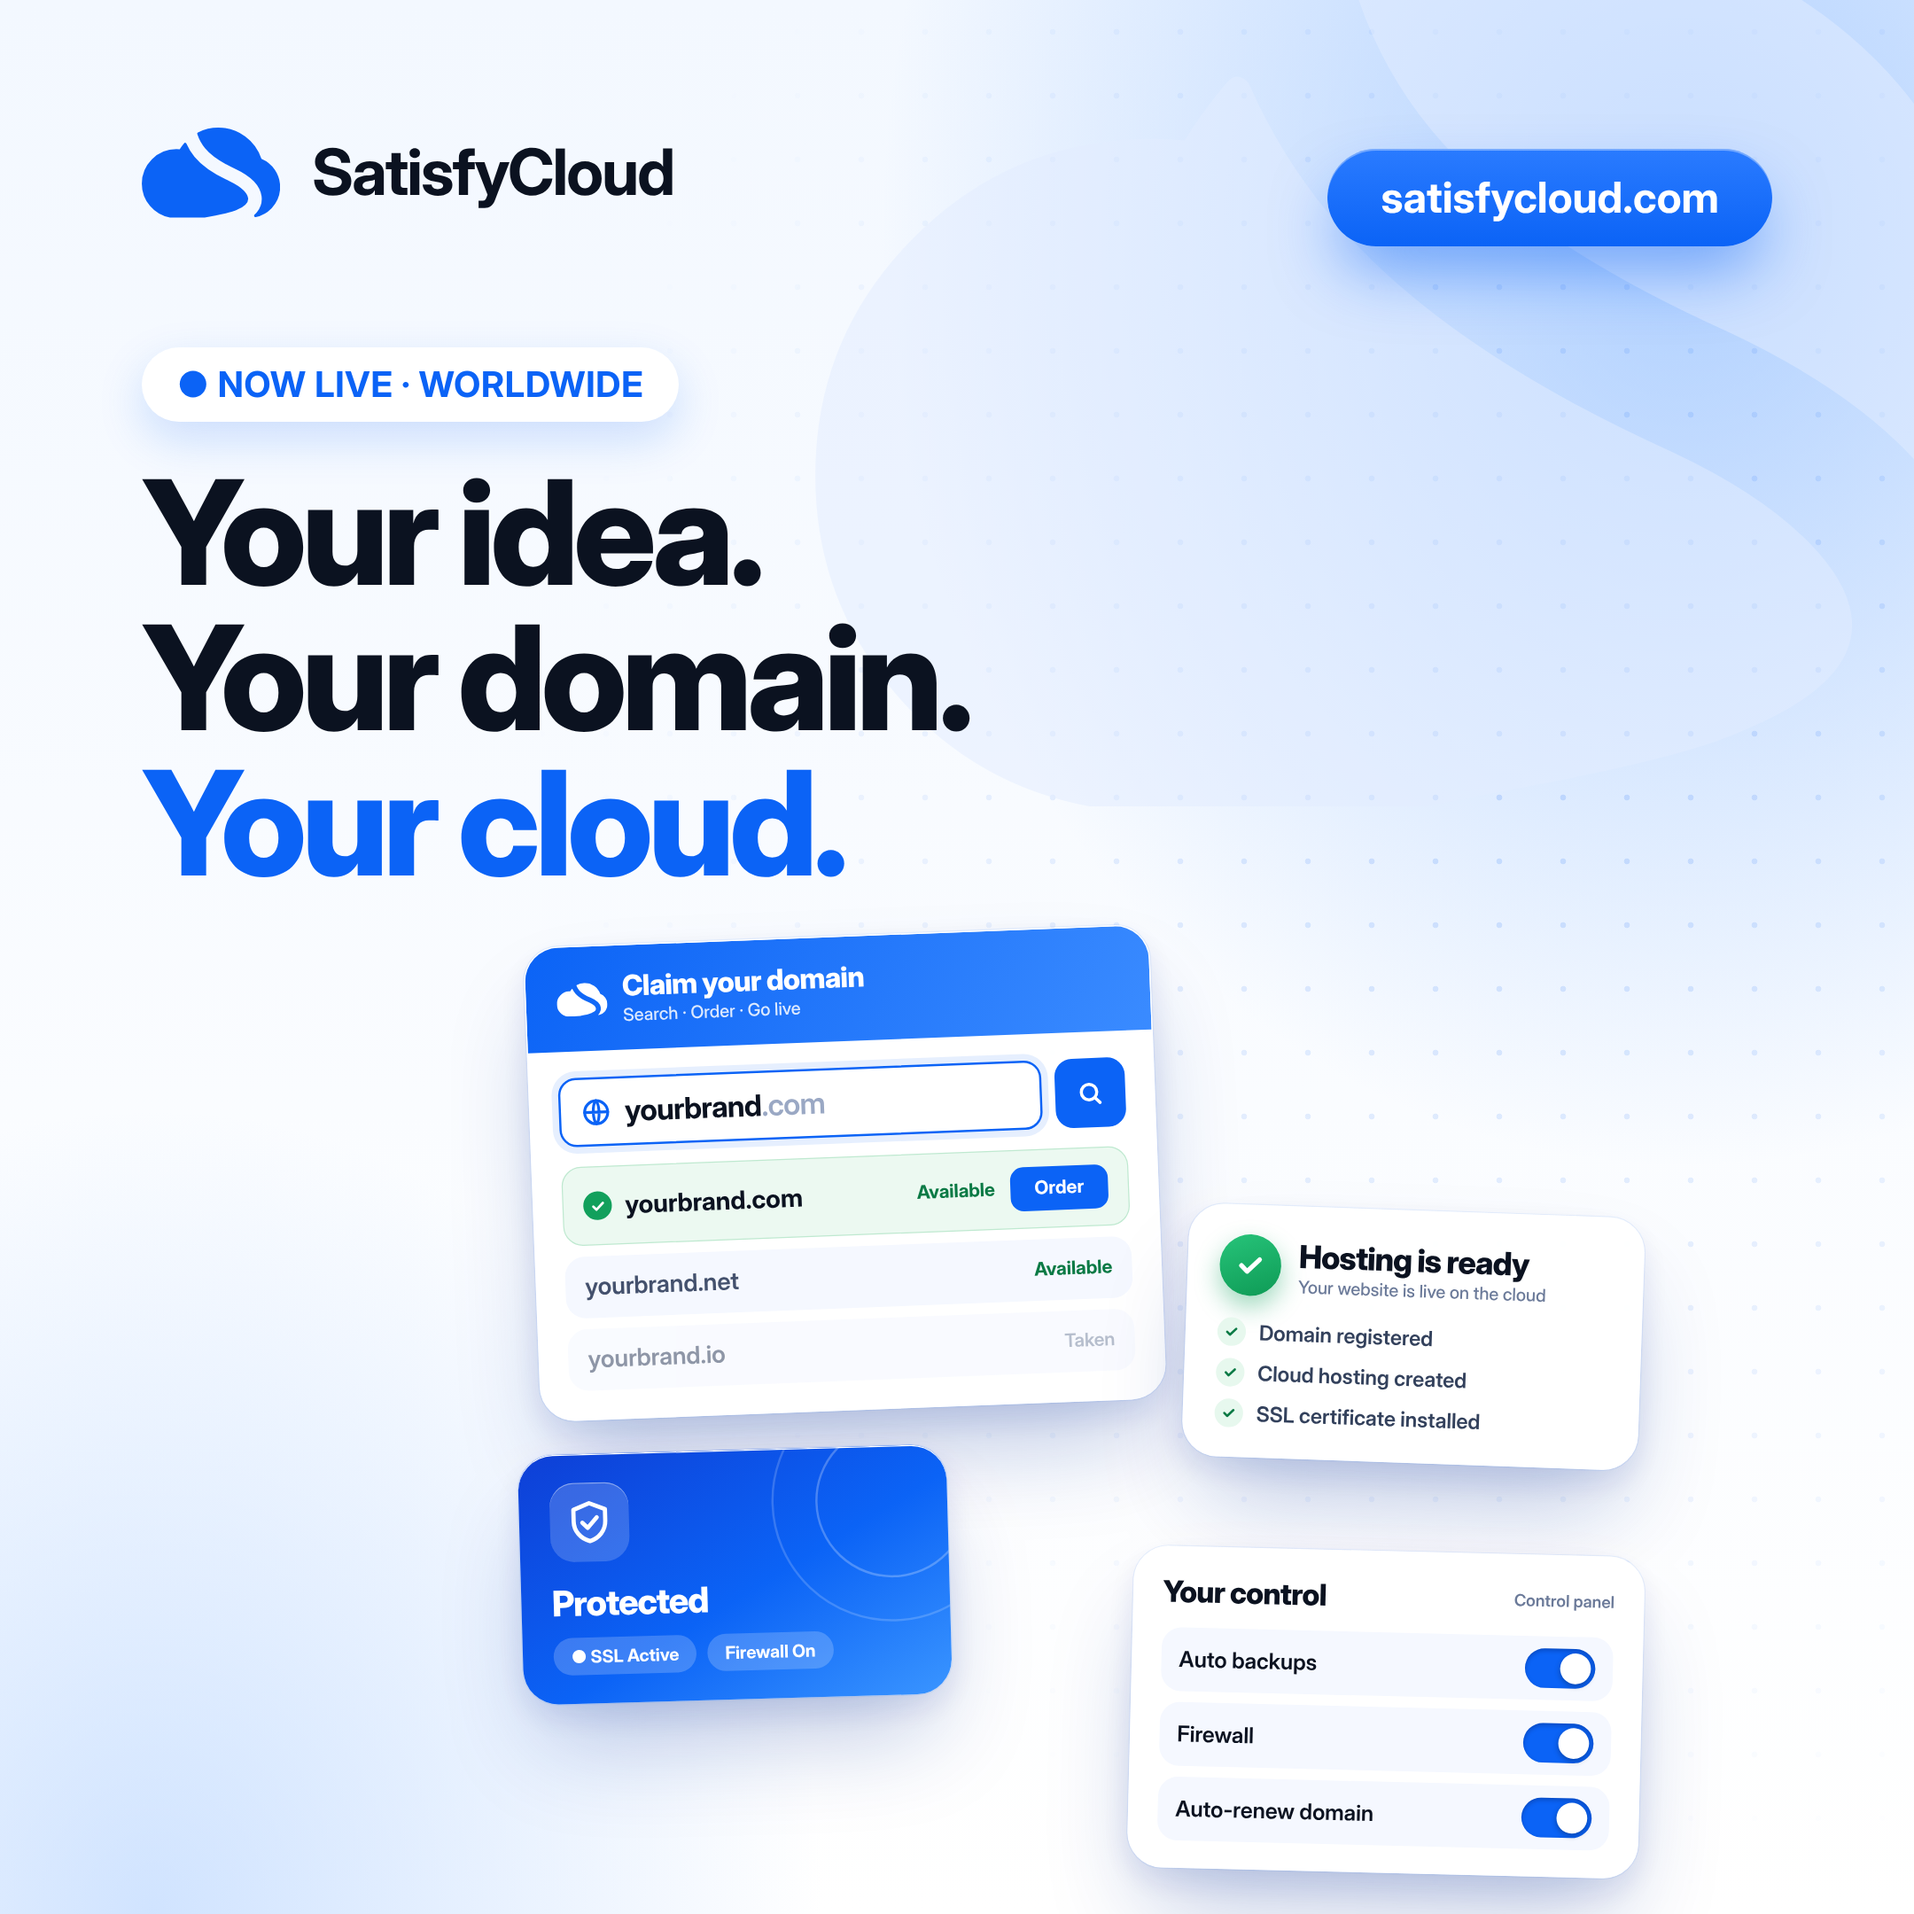
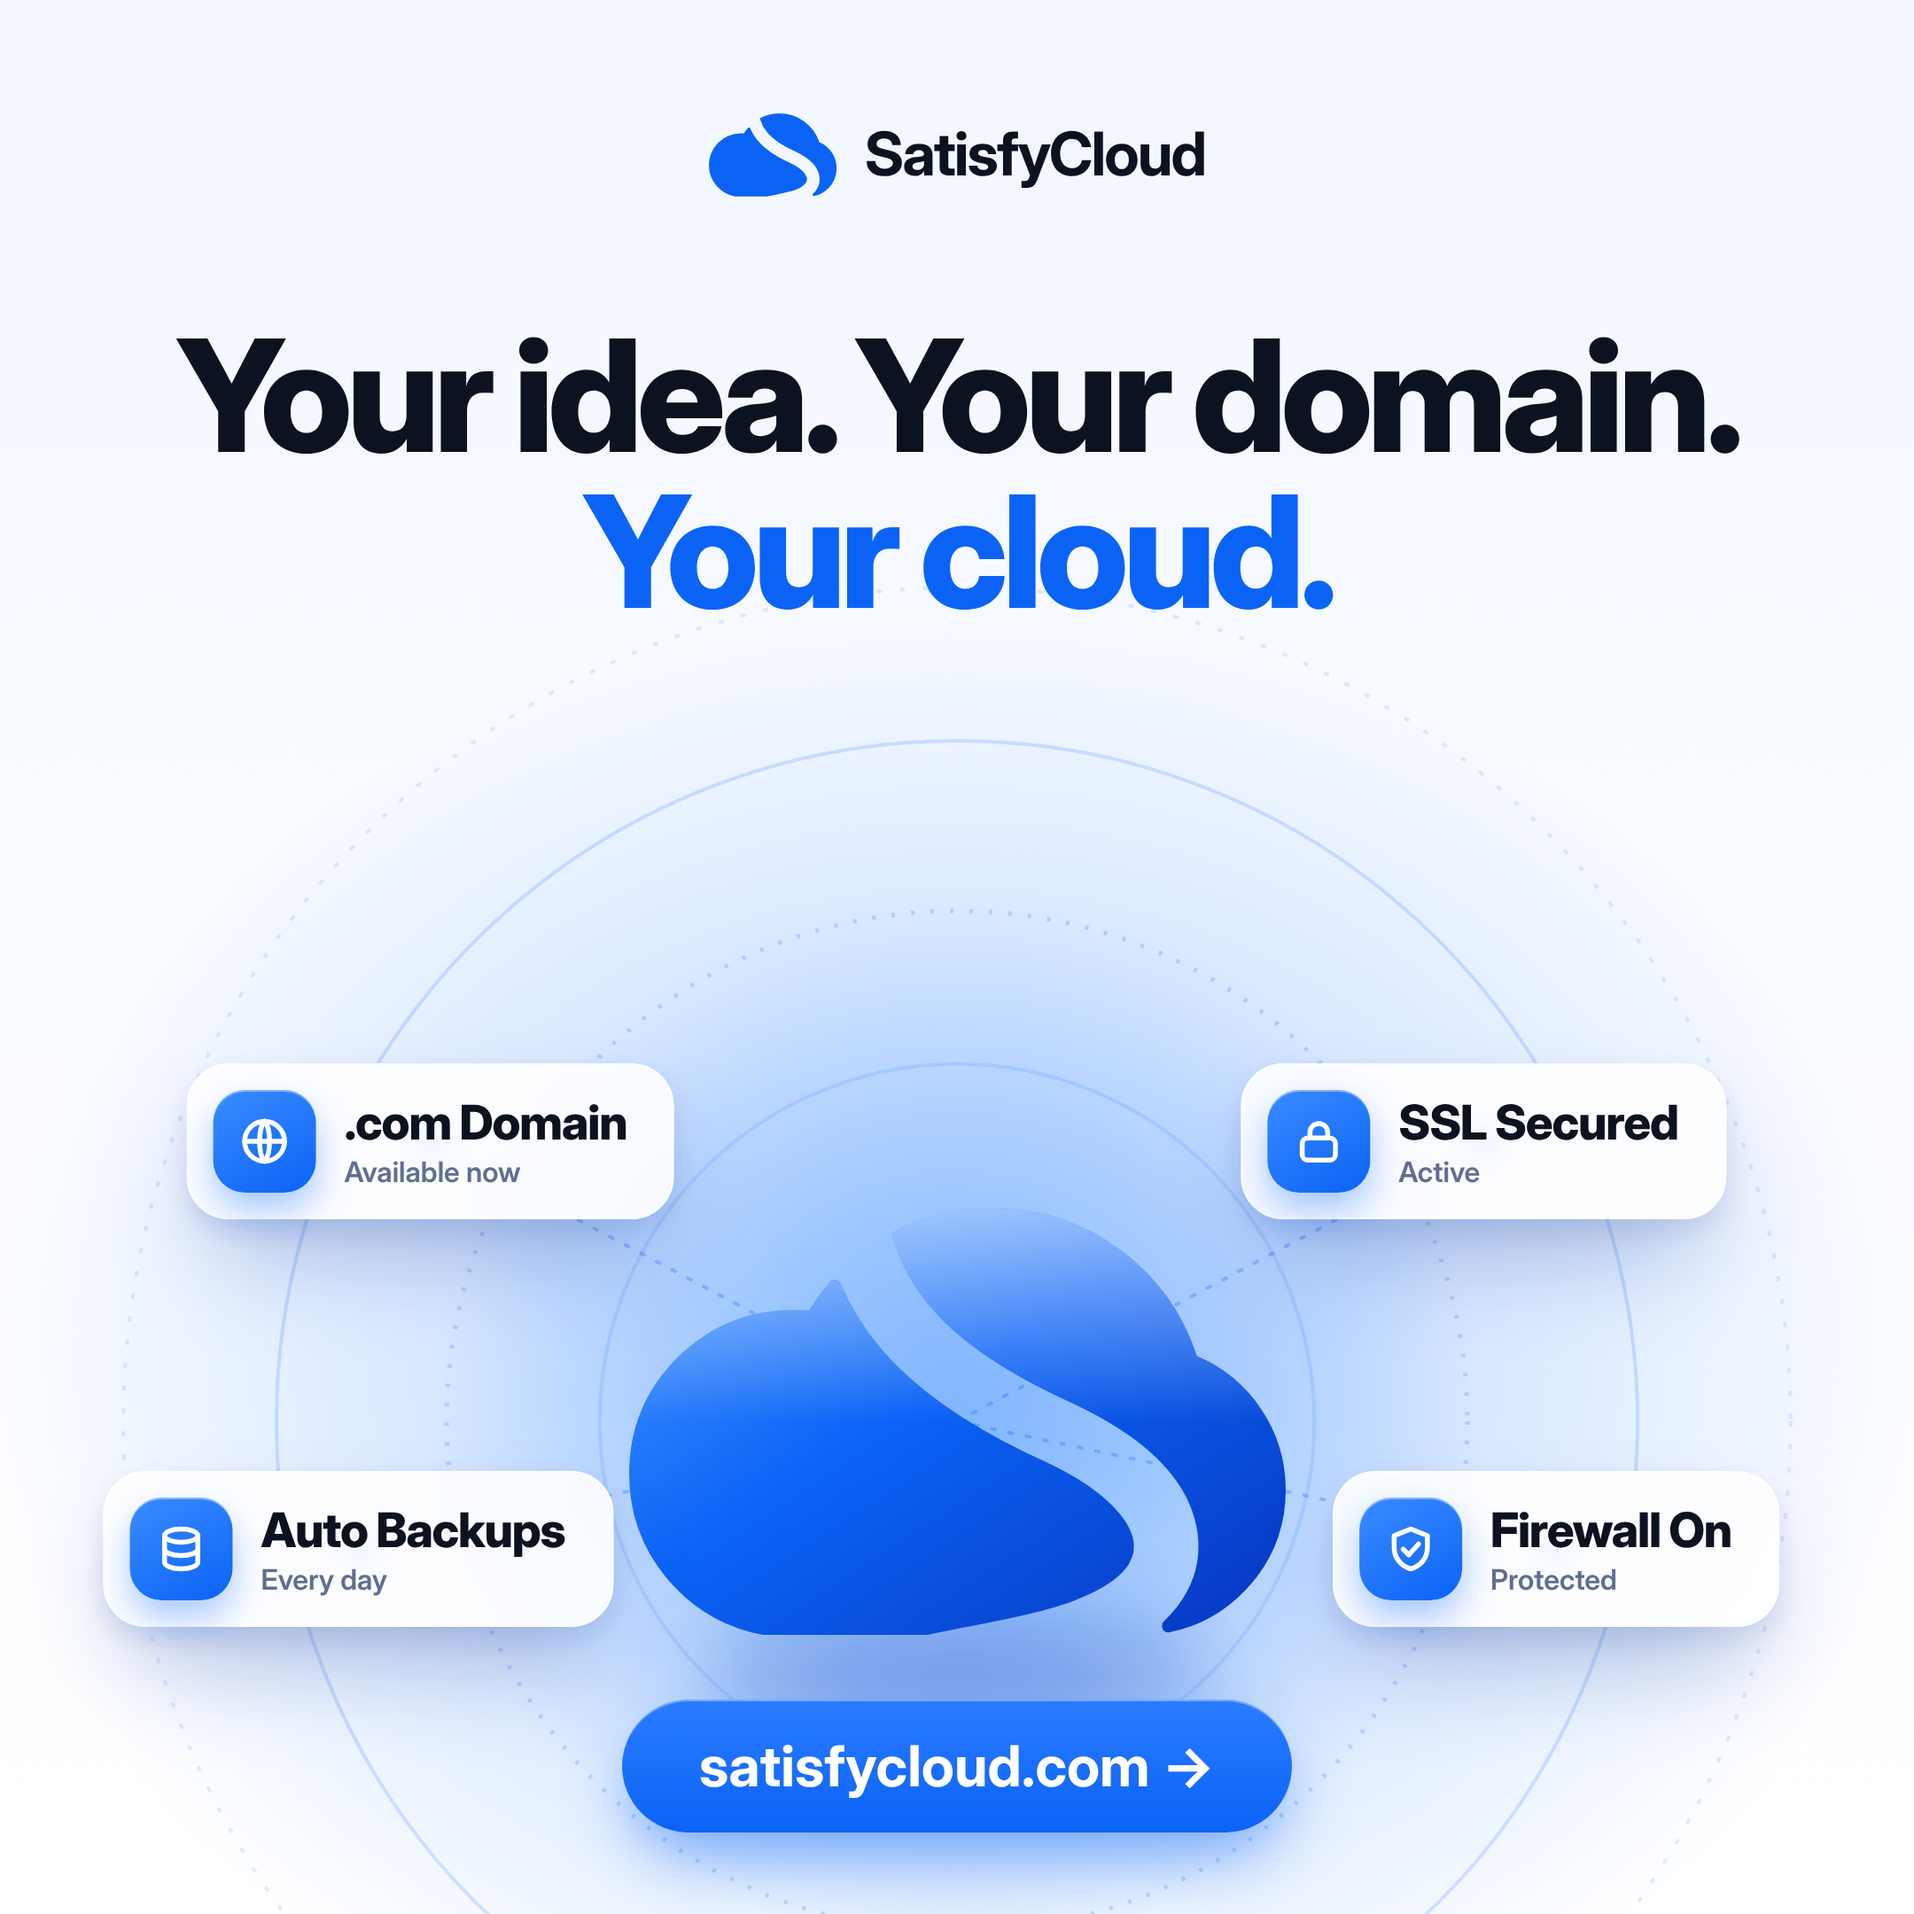
Cover and post redesign: orbit hero with glowing cloud mark, safe zones for profile photo
Claude-Session: https://claude.ai/code/session_01HRGDra9WXwvMnTFnzRxiJG

diff --git a/satisfycloud/social/make4.py b/satisfycloud/social/make4.py
@@ -1,0 +1,66 @@
+import re, math
+from playwright.sync_api import sync_playwright
+Dw=open("../dist/svg/mark-tight_white.svg").read(); D=re.search(r' d="([^"]+)"',Dw)[1]
+MW,MH=[int(x) for x in re.search(r'viewBox="0 0 (\d+) (\d+)"',Dw).groups()]
+def mark(w,c="#0B63F6"): return f'<svg viewBox="0 0 {MW} {MH}" width="{w}" height="{w*MH/MW:.1f}"><path fill="{c}" d="{D}"/></svg>'
+def ic(p,c="#fff",s=30,w=2.2): return f'<svg width="{s}" height="{s}" viewBox="0 0 24 24" fill="none" stroke="{c}" stroke-width="{w}" stroke-linecap="round" stroke-linejoin="round">{p}</svg>'
+I={"globe":ic('<circle cx="12" cy="12" r="9"/><path d="M3 12h18M12 3c3 3.2 3 14.8 0 18M12 3c-3 3.2-3 14.8 0 18"/>'),
+"lock":ic('<rect x="4.5" y="10.5" width="15" height="10" rx="2.5"/><path d="M8 10.5V8a4 4 0 0 1 8 0v2.5"/>'),
+"shield":ic('<path d="M12 3l7.5 3v5.5c0 4.6-3.1 8.2-7.5 9.5-4.4-1.3-7.5-4.9-7.5-9.5V6z"/><path d="M8.6 12.2l2.5 2.5 4.4-4.9"/>'),
+"db":ic('<ellipse cx="12" cy="6" rx="7.5" ry="3"/><path d="M4.5 6v6c0 1.7 3.4 3 7.5 3s7.5-1.3 7.5-3V6M4.5 12v6c0 1.7 3.4 3 7.5 3s7.5-1.3 7.5-3v-6"/>'),
+"check":ic('<path d="M5 12.5l4.5 4.5L19 7.5"/>',"#fff",30,3.2),
+"bolt":ic('<path d="M13 2L4.5 13.5H11L10 22l8.5-11.5H12z"/>')}
+CSS="""*{margin:0;box-sizing:border-box}body{font-family:'Inter Display','Inter',Arial,sans-serif;color:#0B1220;background:#fff}
+.bg{position:absolute;inset:0;background:radial-gradient(55% 70% at 74% 48%,rgba(110,170,255,.55) 0%,rgba(110,170,255,0) 72%),radial-gradient(45% 55% at 0% 100%,rgba(190,215,255,.7) 0%,rgba(190,215,255,0) 70%),linear-gradient(180deg,#f2f7ff 0%,#fff 100%)}
+.pill{display:inline-flex;align-items:center;gap:14px;background:linear-gradient(180deg,#2a7bff,#0B63F6);color:#fff;font-weight:700;border-radius:999px;box-shadow:0 18px 36px -6px rgba(11,99,246,.5),inset 0 1px 0 rgba(255,255,255,.35)}
+.ghost{display:inline-flex;align-items:center;background:#fff;border:2px solid #cfe0ff;color:#0B63F6;font-weight:700;border-radius:999px}
+.chip{position:absolute;display:flex;align-items:center;gap:16px;background:rgba(255,255,255,.88);backdrop-filter:blur(8px);border:1.5px solid #fff;border-radius:24px;padding:14px 26px 14px 14px;box-shadow:0 30px 60px -18px rgba(10,50,150,.35),0 6px 16px rgba(10,50,150,.10);white-space:nowrap}
+.chip b{font-size:27px;font-weight:800;letter-spacing:-.6px;display:block}.chip i{font-style:normal;font-size:16px;color:#5f6f8f;font-weight:600;display:block;margin-top:1px}
+.ib{width:58px;height:58px;border-radius:18px;background:linear-gradient(150deg,#3a8bff,#0B63F6);display:flex;align-items:center;justify-content:center;box-shadow:0 10px 20px rgba(11,99,246,.35),inset 0 1px 0 rgba(255,255,255,.4)}
+.ib.g{background:linear-gradient(150deg,#2fd083,#0e9a55);box-shadow:0 10px 20px rgba(18,160,92,.35),inset 0 1px 0 rgba(255,255,255,.4)}"""
+def hero(chips,S=900,cloud=520):
+    c=S/2; mh=cloud*MH/MW; sc=cloud/MW
+    rings="".join(f'<circle cx="{c}" cy="{c}" r="{r}" fill="none" stroke="#0B63F6" stroke-opacity="{o}" stroke-width="{w}" {d}/>' for r,o,w,d in [(c*.98,.12,2,'stroke-dasharray="3 10"'),(c*.80,.16,2,''),(c*.60,.20,2.5,'stroke-dasharray="2 9"'),(c*.42,.12,2,'')])
+    lines="";cs=""
+    for ang,rad,icon,t,sub,g in chips:
+        a=math.radians(ang);x=c+math.cos(a)*c*rad;y=c+math.sin(a)*c*rad
+        lines+=f'<line x1="{c}" y1="{c}" x2="{x:.0f}" y2="{y:.0f}" stroke="#0B63F6" stroke-opacity=".28" stroke-width="2" stroke-dasharray="2 8" stroke-linecap="round"/><circle cx="{x:.0f}" cy="{y:.0f}" r="7" fill="#0B63F6"/>'
+        cs+=f'<div class="chip" style="left:{x:.0f}px;top:{y:.0f}px;transform:translate(-50%,-50%)"><span class="ib {"g" if g else ""}">{I[icon]}</span><span><b>{t}</b><i>{sub}</i></span></div>'
+    return f'''<div style="position:relative;width:{S}px;height:{S}px">
+<svg width="{S}" height="{S}" style="position:absolute;inset:0" viewBox="0 0 {S} {S}"><defs>
+<radialGradient id="gl"><stop offset="0" stop-color="#5aa0ff" stop-opacity=".55"/><stop offset="1" stop-color="#5aa0ff" stop-opacity="0"/></radialGradient>
+<linearGradient id="cg" x1="0" y1="0" x2="1" y2="1"><stop offset="0" stop-color="#4b9bff"/><stop offset=".45" stop-color="#0B63F6"/><stop offset="1" stop-color="#0636bf"/></linearGradient>
+<linearGradient id="sh" x1="0" y1="0" x2="0" y2="1"><stop offset="0" stop-color="#fff" stop-opacity=".55"/><stop offset=".5" stop-color="#fff" stop-opacity="0"/></linearGradient>
+<filter id="bl" x="-50%" y="-300%" width="200%" height="700%"><feGaussianBlur stdDeviation="26"/></filter></defs>
+{rings}<circle cx="{c}" cy="{c}" r="{c*.62}" fill="url(#gl)"/>
+<ellipse cx="{c}" cy="{c+mh/2+22}" rx="{cloud*.40}" ry="26" fill="#0B3FC0" opacity=".45" filter="url(#bl)"/>
+{lines}
+<g transform="translate({c-cloud/2},{c-mh/2}) scale({sc})"><path d="{D}" fill="url(#cg)"/><path d="{D}" fill="url(#sh)"/></g>
+</svg>{cs}</div>'''
+def head(sz): return ""
+cover_chips=[(-62,.84,"globe",".com Domain","Available now",0),(14,.78,"lock","SSL Secured","Active",0),(78,.80,"shield","Firewall On","Protected",0),(150,.80,"db","Auto Backups","Every day",0),(-135,.80,"check","Hosting Ready","Live on the cloud",1)]
+cover=f"""<html><style>{CSS}</style><body style="width:2000px;height:1125px;position:relative;overflow:hidden">
+<div class="bg"></div>
+<div style="position:absolute;left:190px;top:196px;width:900px">
+ <div style="display:flex;align-items:center;gap:22px">{mark(104)}<span style="font-size:50px;font-weight:700;letter-spacing:-1.5px">SatisfyCloud</span></div>
+ <div style="font-size:116px;line-height:.99;font-weight:800;letter-spacing:-4.8px;margin-top:34px">More Security.<br><span style="color:#0B63F6">More Control.</span></div>
+ <div style="font-size:31px;line-height:1.42;color:#44516d;margin-top:26px;font-weight:500;max-width:720px">Domains &amp; cloud hosting for businesses worldwide — protected, simple and fully in your hands.</div>
+ <div style="margin-top:34px;display:flex;gap:16px"><span class="pill" style="font-size:28px;padding:19px 38px">Order your domain →</span><span class="ghost" style="font-size:28px;padding:17px 32px">satisfycloud.com</span></div>
+</div>
+<div style="position:absolute;left:940px;top:105px">{hero(cover_chips,S=960,cloud=560)}</div>
+</body></html>"""
+post_chips=[(-152,.70,"globe",".com Domain","Available now",0),(-28,.70,"lock","SSL Secured","Active",0),(168,.72,"db","Auto Backups","Every day",0),(12,.72,"shield","Firewall On","Protected",0)]
+post=f"""<html><style>{CSS}</style><body style="width:1080px;height:1080px;position:relative;overflow:hidden">
+<div class="bg" style="background:radial-gradient(70% 55% at 50% 72%,rgba(110,170,255,.55) 0%,rgba(110,170,255,0) 72%),linear-gradient(180deg,#f2f7ff 0%,#fff 100%)"></div>
+<div style="position:absolute;left:0;right:0;top:64px;display:flex;justify-content:center;align-items:center;gap:16px">{mark(72)}<span style="font-size:34px;font-weight:700;letter-spacing:-1px">SatisfyCloud</span></div>
+<div style="position:absolute;left:0;right:0;top:180px;text-align:center;font-size:88px;line-height:1;font-weight:800;letter-spacing:-3.6px">Your idea. Your domain.<br><span style="color:#0B63F6">Your cloud.</span></div>
+<div style="position:absolute;left:50%;top:322px;margin-left:-480px;transform:scale(1);transform-origin:center top">{hero(post_chips,S=960,cloud=370).replace('class="chip"','class="chip" data-p="1"')}</div>
+<div style="position:absolute;left:0;right:0;bottom:46px;display:flex;justify-content:center"><span class="pill" style="font-size:32px;padding:18px 44px">satisfycloud.com →</span></div>
+</body></html>"""
+open("cover.html","w").write(cover);open("post.html","w").write(post)
+CH='/opt/pw-browsers/chromium-1243/chrome-linux64/chrome'
+with sync_playwright() as pw:
+    br=pw.chromium.launch(executable_path=CH,args=['--no-sandbox'])
+    for n,w,h,sc,out in [("cover",2000,1125,1,"facebook-cover.png"),("post",1080,1080,2,"facebook-post@2x.png")]:
+        pg=br.new_page(viewport={"width":w,"height":h},device_scale_factor=sc);pg.goto(f"file:///home/user/logo-design-skill/satisfycloud/social/{n}.html");pg.screenshot(path=out);pg.close()
+    br.close()
